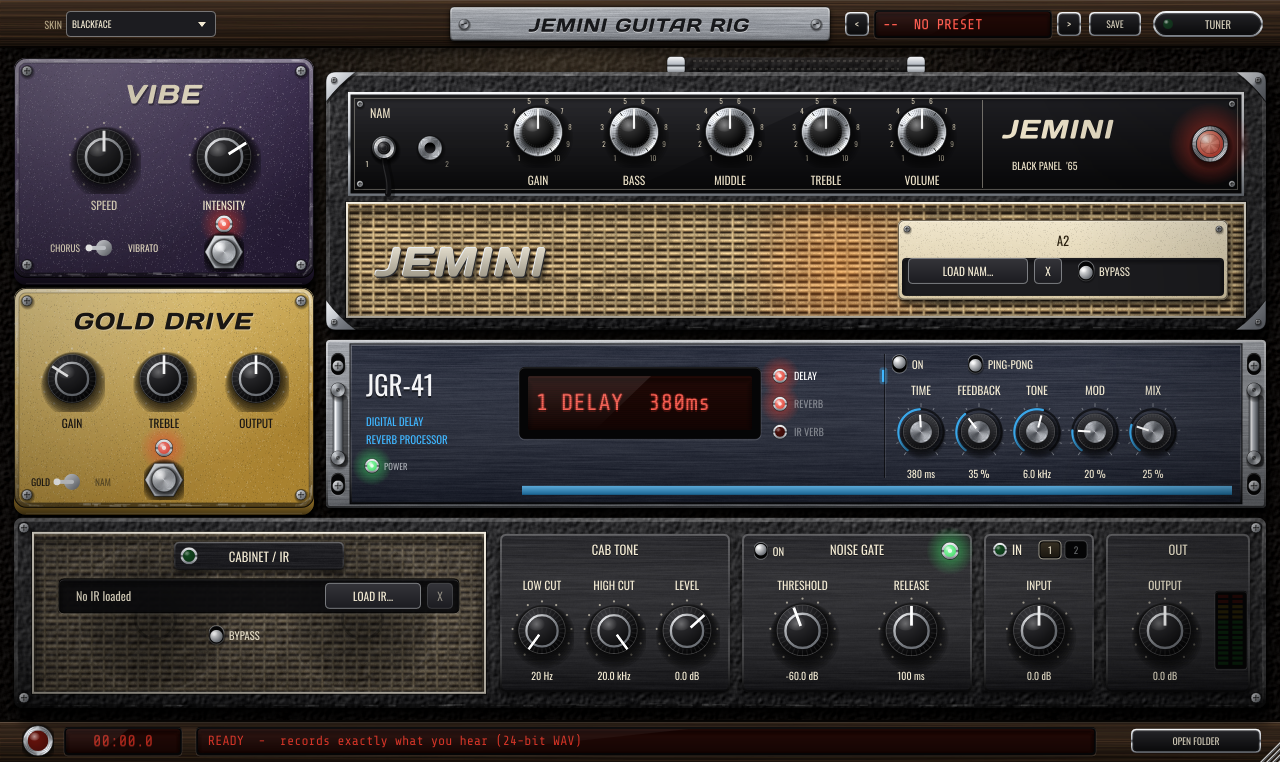
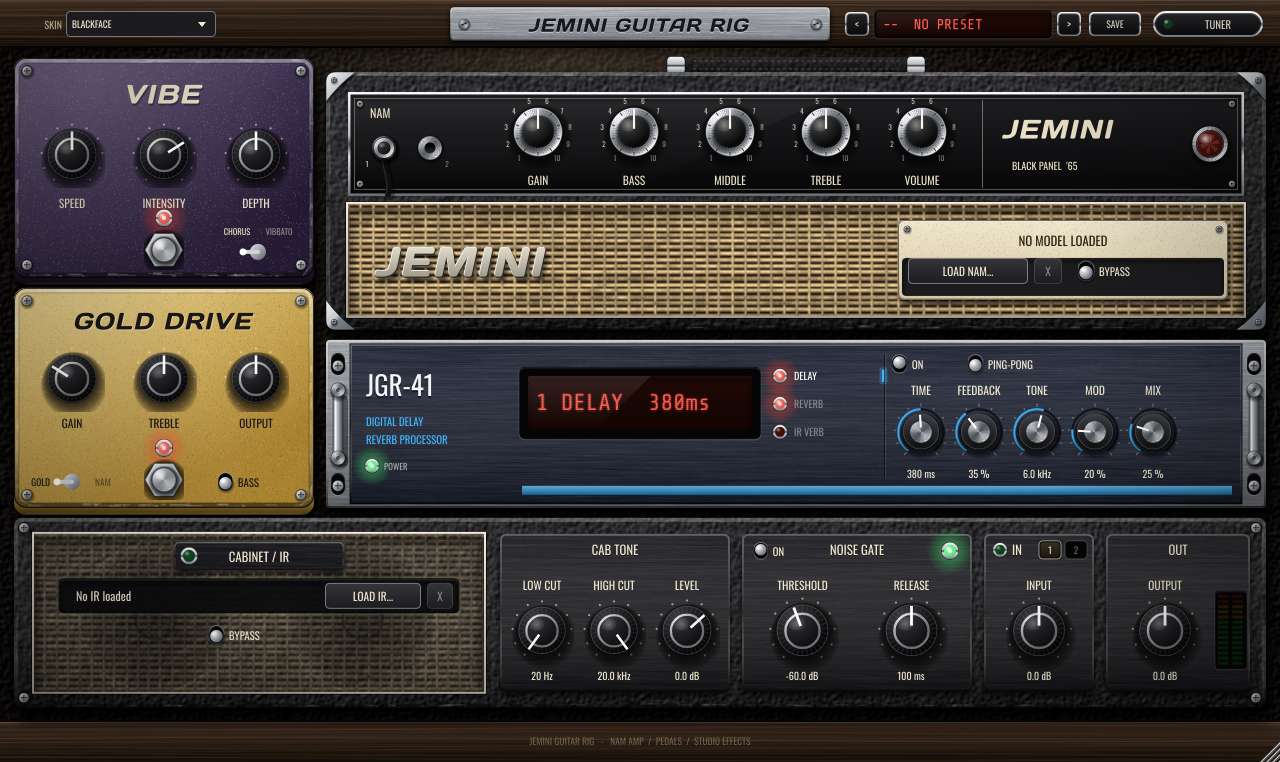
Vibe: DEPTH knob (wider LDR sweep + lamp throb)
- vibeDepth parameter (0-100 %, default 50 %): scales the LDR resistance
  range around its 10 kOhm centre (25:1 at ~33 %, the previous voicing, up to
  ~330:1 at 100 %) and adds the lamp's level throb
- Measured vibrato wobble at 440 Hz: 54 / 99 / 123 / 160 / 197 cents for
  depth 0 / 33 / 50 / 75 / 100 %
- Pedal re-laid out: SPEED / INTENSITY / DEPTH, centred footswitch, CHORUS /
  VIBRATO switch bottom-right

Claude-Session: https://claude.ai/code/session_01Xrv8MNUsFMci2LD7dNoEYZ

diff --git a/Source/UI/RigPanel.cpp b/Source/UI/RigPanel.cpp
@@ -165,8 +165,10 @@ RigPanel::RigPanel (VintageGuitarSuiteAudioProcessor& p)
     // --- VIBE pedal ---
     setupKnob (vibeSpeed,     "vibeSpeed",     "SPEED",     "pedal", ValueBox::none, 1, "Hz", cream);
     setupKnob (vibeIntensity, "vibeIntensity", "INTENSITY", "pedal", ValueBox::none, 0, "%",  cream);
+    setupKnob (vibeDepth,     "vibeDepth",     "DEPTH",     "pedal", ValueBox::none, 0, "%",  cream);
     setupToggle (vibeOn,   vibeOnAttachment,   "vibeOn",   "footswitch", cream);
     setupToggle (vibeMode, vibeModeAttachment, "vibeMode", "modeSwitch", cream);
+    vibeMode.onStateChange = [this] { repaint (vibeMode.getBounds().expanded (40, 20)); };
 
     // --- GOLD DRIVE pedal ---
     setupKnob (odGain,   "odGain",   "GAIN",   "pedal", ValueBox::none, 1, {}, ink);
@@ -890,7 +892,7 @@ void RigPanel::applySkin (int index)
 
     for (auto& k : ampKnobs)
         k.label.setColour (juce::Label::textColourId, sk.panelText);
-    for (auto* k : { &vibeSpeed, &vibeIntensity })
+    for (auto* k : { &vibeSpeed, &vibeIntensity, &vibeDepth })
         k->label.setColour (juce::Label::textColourId, sk.vibeText);
     for (auto* k : { &odGain, &odTreble, &odOutput })
         k->label.setColour (juce::Label::textColourId, sk.goldText);
@@ -937,15 +939,19 @@ void RigPanel::resized()
     // ---- VIBE pedal ----
     {
         const auto a = vibeArea;
-        const int knobSize = 74;
-        vibeSpeed.slider.setBounds     (a.getX() + 90 - knobSize / 2,  a.getY() + 62, knobSize, knobSize);
-        vibeIntensity.slider.setBounds (a.getX() + 210 - knobSize / 2, a.getY() + 62, knobSize, knobSize);
-        vibeSpeed.label.setBounds      (a.getX() + 40,  a.getY() + 136, 100, 22);
-        vibeIntensity.label.setBounds  (a.getX() + 160, a.getY() + 136, 100, 22);
+        const int knobSize = 66;
+        const std::array<int, 3> vx { 58, 150, 242 };
+        const std::array<Knob*, 3> vk { &vibeSpeed, &vibeIntensity, &vibeDepth };
+        for (size_t i = 0; i < 3; ++i)
+        {
+            vk[i]->slider.setBounds (a.getX() + vx[i] - knobSize / 2, a.getY() + 64, knobSize, knobSize);
+            vk[i]->label.setBounds  (a.getX() + vx[i] - 50, a.getY() + 134, 100, 22);
+        }
 
-        vibeMode.setBounds (a.getX() + 90 - 20, a.getY() + 178, 40, 24);
-        vibeLedArea = juce::Rectangle<int> (12, 12).withCentre ({ a.getX() + 210, a.getY() + 166 });
-        vibeOn.setBounds (juce::Rectangle<int> (40, 40).withCentre ({ a.getX() + 210, a.getY() + 194 }));
+        // CHORUS / VIBRATO switch bottom-right, footswitch centred (like the Gold Drive)
+        vibeMode.setBounds (a.getX() + 244 - 20, a.getY() + 182, 40, 24);
+        vibeLedArea = juce::Rectangle<int> (12, 12).withCentre ({ a.getX() + 150, a.getY() + 160 });
+        vibeOn.setBounds (juce::Rectangle<int> (40, 40).withCentre ({ a.getX() + 150, a.getY() + 192 }));
     }
 
     // ---- GOLD DRIVE pedal ----
@@ -1381,8 +1387,15 @@ void RigPanel::paint (juce::Graphics& g)
     LnF::drawSlantedLogo (g, "VIBE", vibeArea.withHeight (60).translated (0, 6).toFloat(), 34.0f, juce::Justification::centred);
 
     g.setFont (LnF::condensed (14.0f));
-    g.drawText ("CHORUS",  juce::Rectangle<int> (vibeArea.getX() + 14, vibeArea.getY() + 182, 52, 16), juce::Justification::centredRight, false);
-    g.drawText ("VIBRATO", juce::Rectangle<int> (vibeArea.getX() + 114, vibeArea.getY() + 182, 56, 16), juce::Justification::centredLeft, false);
+    {
+        const auto sw = vibeMode.getBounds();
+        const bool vib = vibeMode.getToggleState();
+        g.setFont (LnF::condensed (12.5f));
+        g.setColour (sk.vibeText.withAlpha (vib ? 0.55f : 1.0f));
+        g.drawText ("CHORUS",  juce::Rectangle<int> (sw.getX() - 26, sw.getY() - 16, 50, 14), juce::Justification::centred, false);
+        g.setColour (sk.vibeText.withAlpha (vib ? 1.0f : 0.55f));
+        g.drawText ("VIBRATO", juce::Rectangle<int> (sw.getRight() - 24, sw.getY() - 16, 50, 14), juce::Justification::centred, false);
+    }
     drawLed (g, vibeLedArea, vibeOn.getToggleState(), LnF::redLed);
 
     if (! namPedalShown)

diff --git a/Source/Modules/Vibe.cpp b/Source/Modules/Vibe.cpp
@@ -15,11 +15,12 @@ void Vibe::reset()
     lamp = 0.5f;
 }
 
-void Vibe::setParameters (float speedHz, float intensity01, bool vibratoMode)
+void Vibe::setParameters (float speedHz, float intensity01, bool vibratoMode, float depth01)
 {
     speed     = speedHz;
     intensity = juce::jlimit (0.0f, 1.0f, intensity01);
     vibrato   = vibratoMode;
+    depth     = juce::jlimit (0.0f, 1.0f, depth01);
 }
 
 void Vibe::process (float* data, int numSamples)
@@ -27,6 +28,14 @@ void Vibe::process (float* data, int numSamples)
     const double phaseInc = speed / sampleRate;
     const double maxFreq  = sampleRate * 0.45;
     const double piOverFs = juce::MathConstants<double>::pi / sampleRate;
+
+    // DEPTH (smoothed per block): sweep range and lamp throb
+    smoothedDepth += 0.3f * (depth - smoothedDepth);
+    const double rCentre   = std::sqrt (rBright * rDark);
+    const double rangeLog  = std::log (rDark / rBright) * (0.6 + 1.2 * (double) smoothedDepth);  // 25:1 at ~33 %
+    const double rLow      = rCentre * std::exp (-0.5 * rangeLog);
+    const double rHigh     = rCentre * std::exp ( 0.5 * rangeLog);
+    const float  throb     = 0.28f * smoothedDepth * intensity;     // up to about -3 dB dips
 
     for (int i = 0; i < numSamples; ++i)
     {
@@ -45,7 +54,7 @@ void Vibe::process (float* data, int numSamples)
         const float light = 0.5f + intensity * (lamp - 0.5f) * 2.0f;
 
         // LDR: resistance changes exponentially with light
-        const double r = rDark * std::pow (rBright / rDark, (double) juce::jlimit (0.0f, 1.0f, light));
+        const double r = rHigh * std::pow (rLow / rHigh, (double) juce::jlimit (0.0f, 1.0f, light));
 
         // 4 first-order all-pass stages, each at its own frequency
         const float dry = data[i];
@@ -63,7 +72,9 @@ void Vibe::process (float* data, int numSamples)
             x = y;
         }
 
-        // Chorus = dry + wet (notches), Vibrato = wet only
-        data[i] = vibrato ? x : 0.5f * (dry + x);
+        // Chorus = dry + wet (notches), Vibrato = wet only.
+        // Throb: the lamp bleeds into the level - quieter when it's dark.
+        const float level = 1.0f - throb * (1.0f - lamp);
+        data[i] = level * (vibrato ? x : 0.5f * (dry + x));
     }
 }

diff --git a/Source/PluginProcessor.cpp b/Source/PluginProcessor.cpp
@@ -29,6 +29,7 @@ VintageGuitarSuiteAudioProcessor::VintageGuitarSuiteAudioProcessor()
     vibeSpeed     = apvts.getRawParameterValue ("vibeSpeed");
     vibeIntensity = apvts.getRawParameterValue ("vibeIntensity");
     vibeMode      = apvts.getRawParameterValue ("vibeMode");
+    vibeDepth     = apvts.getRawParameterValue ("vibeDepth");
 
     odOn     = apvts.getRawParameterValue ("odOn");
     odGain   = apvts.getRawParameterValue ("odGain");
@@ -251,6 +252,11 @@ VintageGuitarSuiteAudioProcessor::createParameterLayout()
         juce::NormalisableRange<float> (0.0f, 100.0f, 0.1f), 70.0f,
         juce::AudioParameterFloatAttributes().withLabel ("%")));
 
+    layout.add (std::make_unique<juce::AudioParameterFloat> (
+        juce::ParameterID { "vibeDepth", 1 }, "Vibe Depth",
+        juce::NormalisableRange<float> (0.0f, 100.0f, 0.1f), 50.0f,
+        juce::AudioParameterFloatAttributes().withLabel ("%")));
+
     layout.add (std::make_unique<juce::AudioParameterChoice> (
         juce::ParameterID { "vibeMode", 1 }, "Vibe Mode",
         juce::StringArray { "Chorus", "Vibrato" }, 0));
@@ -446,7 +452,8 @@ void VintageGuitarSuiteAudioProcessor::processBlock (juce::AudioBuffer<float>& b
     // 3) Pedals: VIBE -> GOLD DRIVE
     if (vibeOn->load() > 0.5f)
     {
-        vibe.setParameters (vibeSpeed->load(), vibeIntensity->load() / 100.0f, vibeMode->load() > 0.5f);
+        vibe.setParameters (vibeSpeed->load(), vibeIntensity->load() / 100.0f, vibeMode->load() > 0.5f,
+                            vibeDepth->load() / 100.0f);
         vibe.process (mono, numSamples);
     }
 

diff --git a/Source/Modules/Vibe.h b/Source/Modules/Vibe.h
@@ -15,6 +15,8 @@
 //    exponential - that gives the vibe its lopsided, liquid sweep.
 //  - CHORUS mode mixes the dry signal with the shifted one (notches).
 //    VIBRATO mode outputs only the shifted signal (pitch wobble).
+//  - DEPTH widens how far the LDRs travel (from ~3 to ~8 octaves of sweep)
+//    and adds the lamp "throb": the slight volume pulse a real unit has.
 // Mono, real-time safe.
 //==============================================================================
 class Vibe
@@ -24,7 +26,7 @@ public:
     void reset();
 
     // Audio thread
-    void setParameters (float speedHz, float intensity01, bool vibratoMode);
+    void setParameters (float speedHz, float intensity01, bool vibratoMode, float depth01 = 0.5f);
     void process (float* data, int numSamples);
 
 private:
@@ -33,7 +35,8 @@ private:
     // Uni-Vibe stage capacitors (farads)
     static constexpr std::array<double, numStages> stageCaps { 15e-9, 220e-9, 470e-12, 4.7e-9 };
 
-    // LDR resistance range: bright lamp -> low R, dark -> high R (ohms)
+    // LDR resistance range at DEPTH ~33 %: bright lamp -> low R, dark -> high R
+    // (ohms). DEPTH scales the range around its geometric centre (10 kOhm).
     static constexpr double rBright = 2.0e3;
     static constexpr double rDark   = 50.0e3;
 
@@ -44,6 +47,7 @@ private:
 
     std::array<float, numStages> state {};
 
-    float speed = 3.0f, intensity = 0.7f;
+    float speed = 3.0f, intensity = 0.7f, depth = 0.5f;
+    float smoothedDepth = 0.5f;
     bool vibrato = false;
 };

diff --git a/Source/UI/RigPanel.h b/Source/UI/RigPanel.h
@@ -99,7 +99,7 @@ private:
 
     //==========================================================================
     // Pedals
-    Knob vibeSpeed, vibeIntensity;
+    Knob vibeSpeed, vibeIntensity, vibeDepth;
     juce::ToggleButton vibeOn, vibeMode;
     std::unique_ptr<ButtonAttachment> vibeOnAttachment, vibeModeAttachment;
 

diff --git a/Source/PluginProcessor.h b/Source/PluginProcessor.h
@@ -159,6 +159,7 @@ private:
     std::atomic<float>* vibeSpeed     = nullptr;
     std::atomic<float>* vibeIntensity = nullptr;
     std::atomic<float>* vibeMode      = nullptr;
+    std::atomic<float>* vibeDepth     = nullptr;
 
     std::atomic<float>* odOn     = nullptr;
     std::atomic<float>* odGain   = nullptr;
